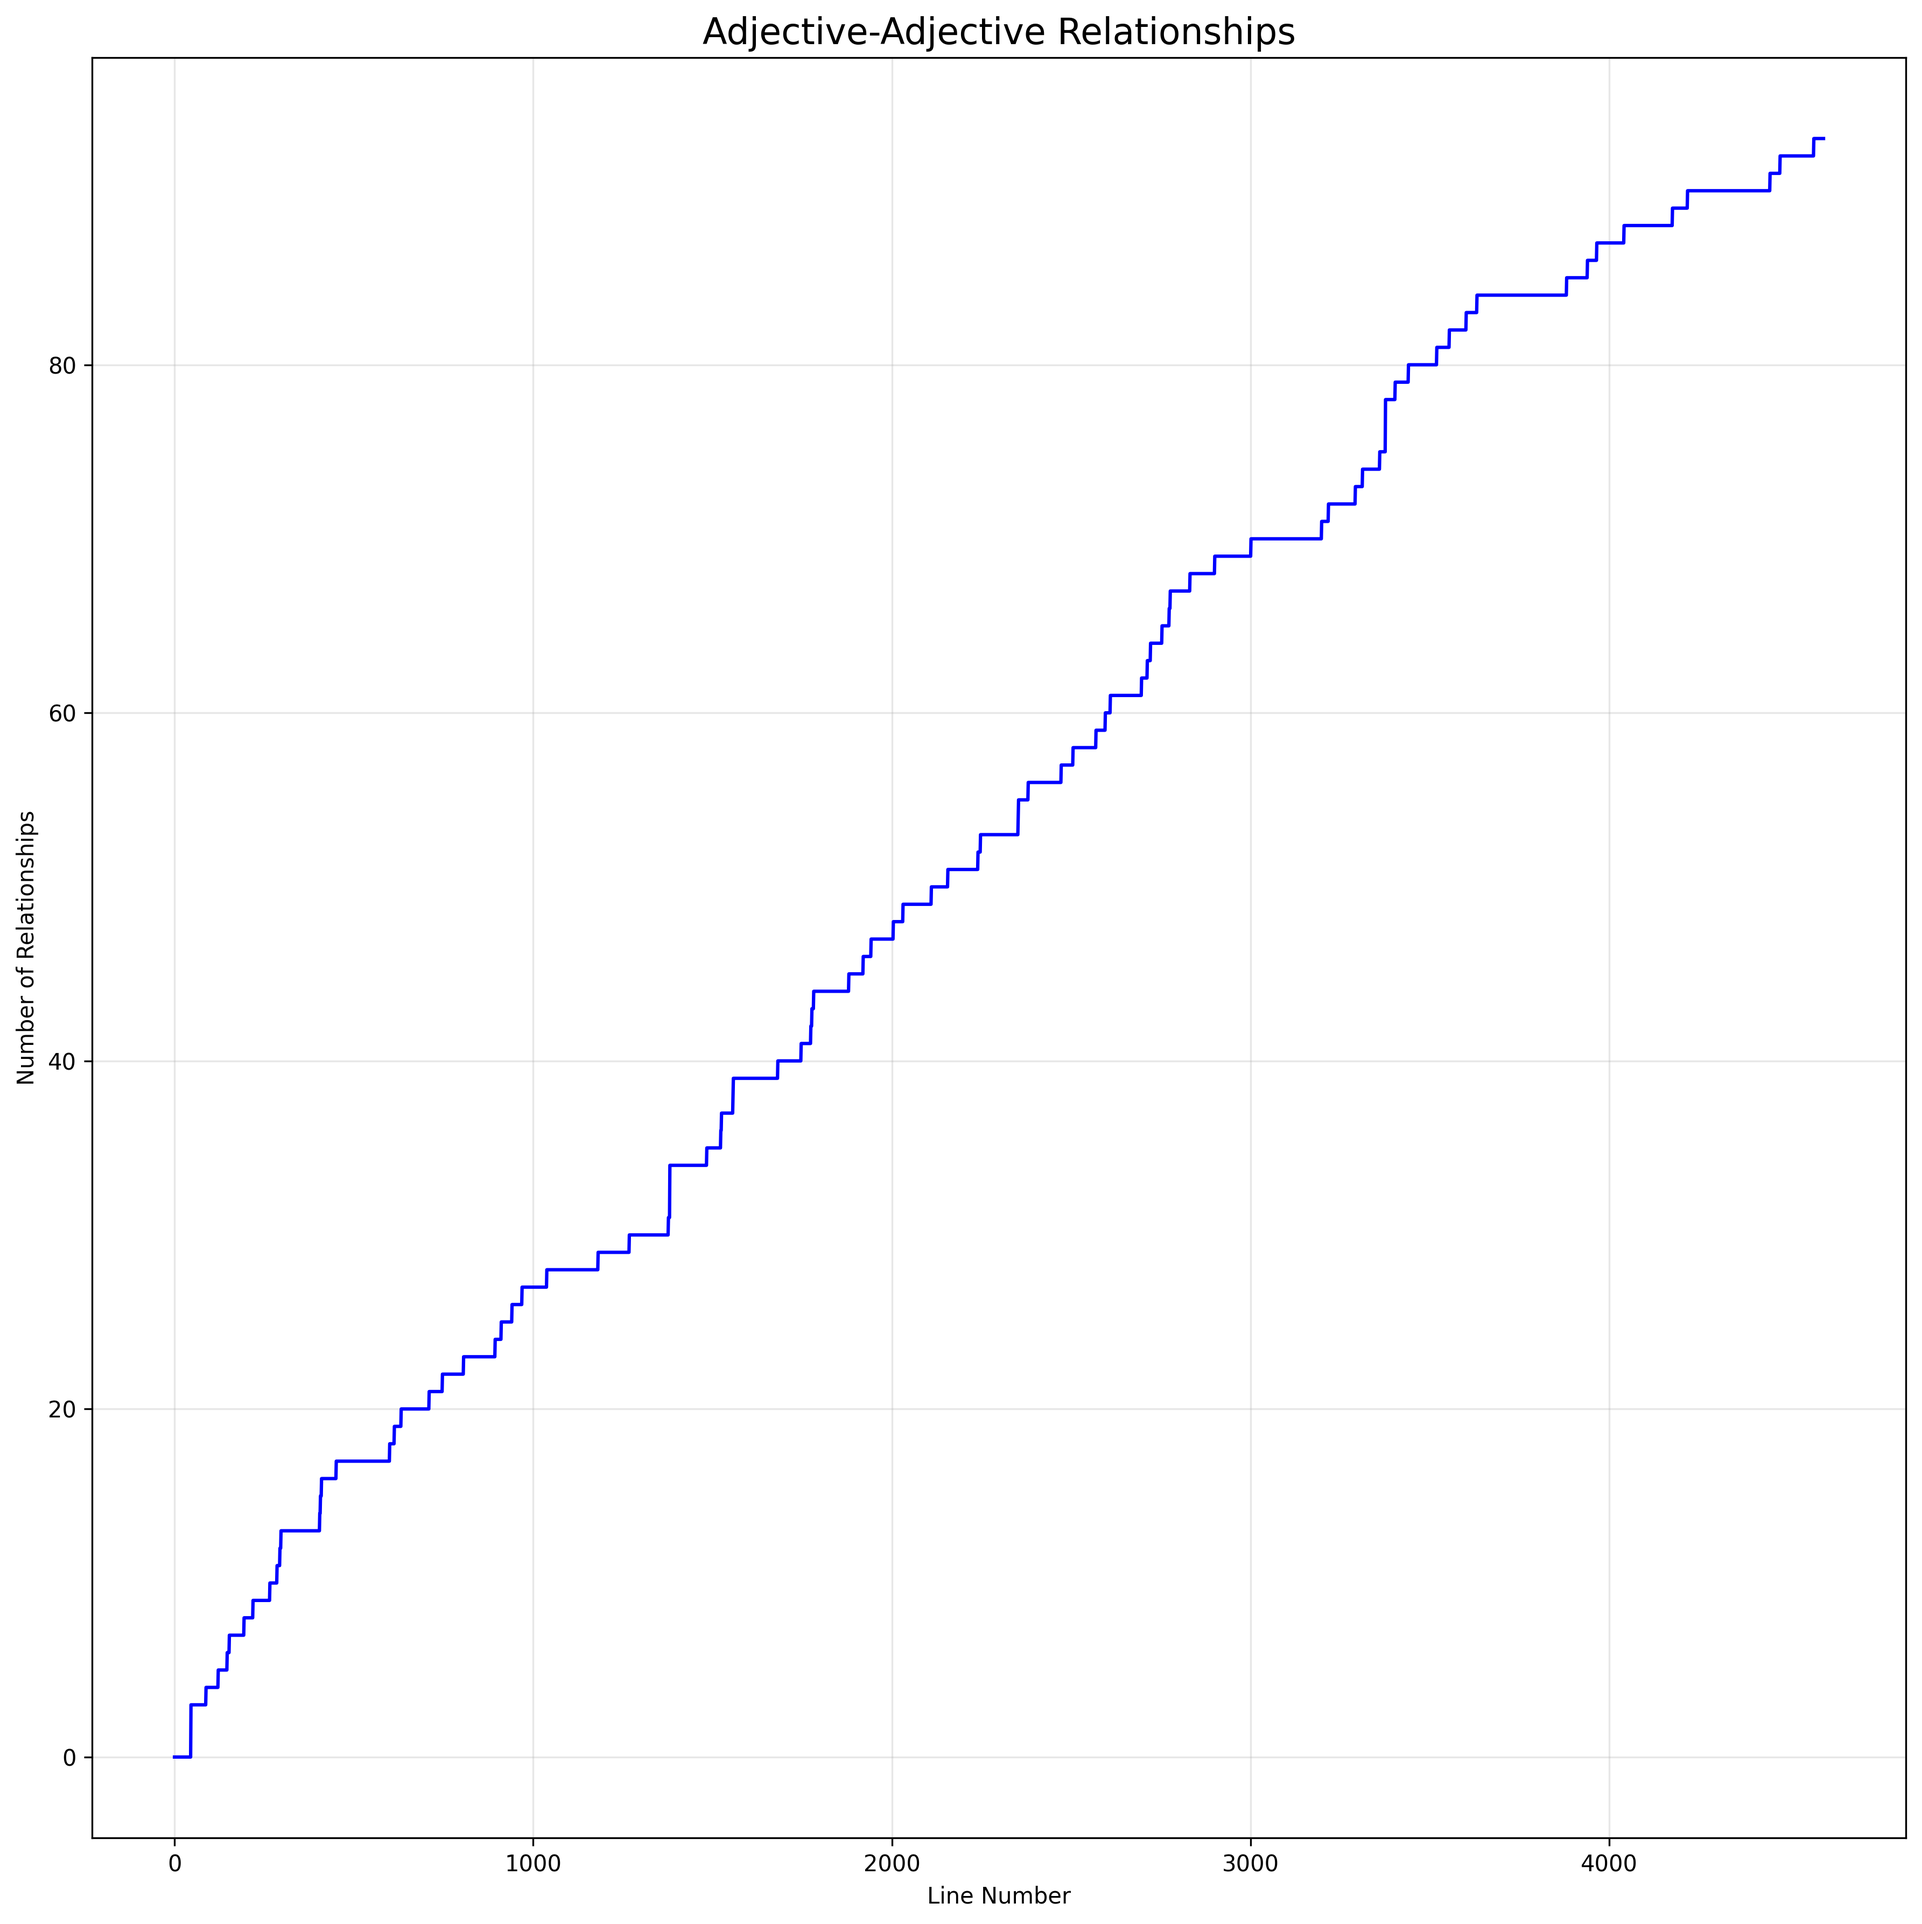
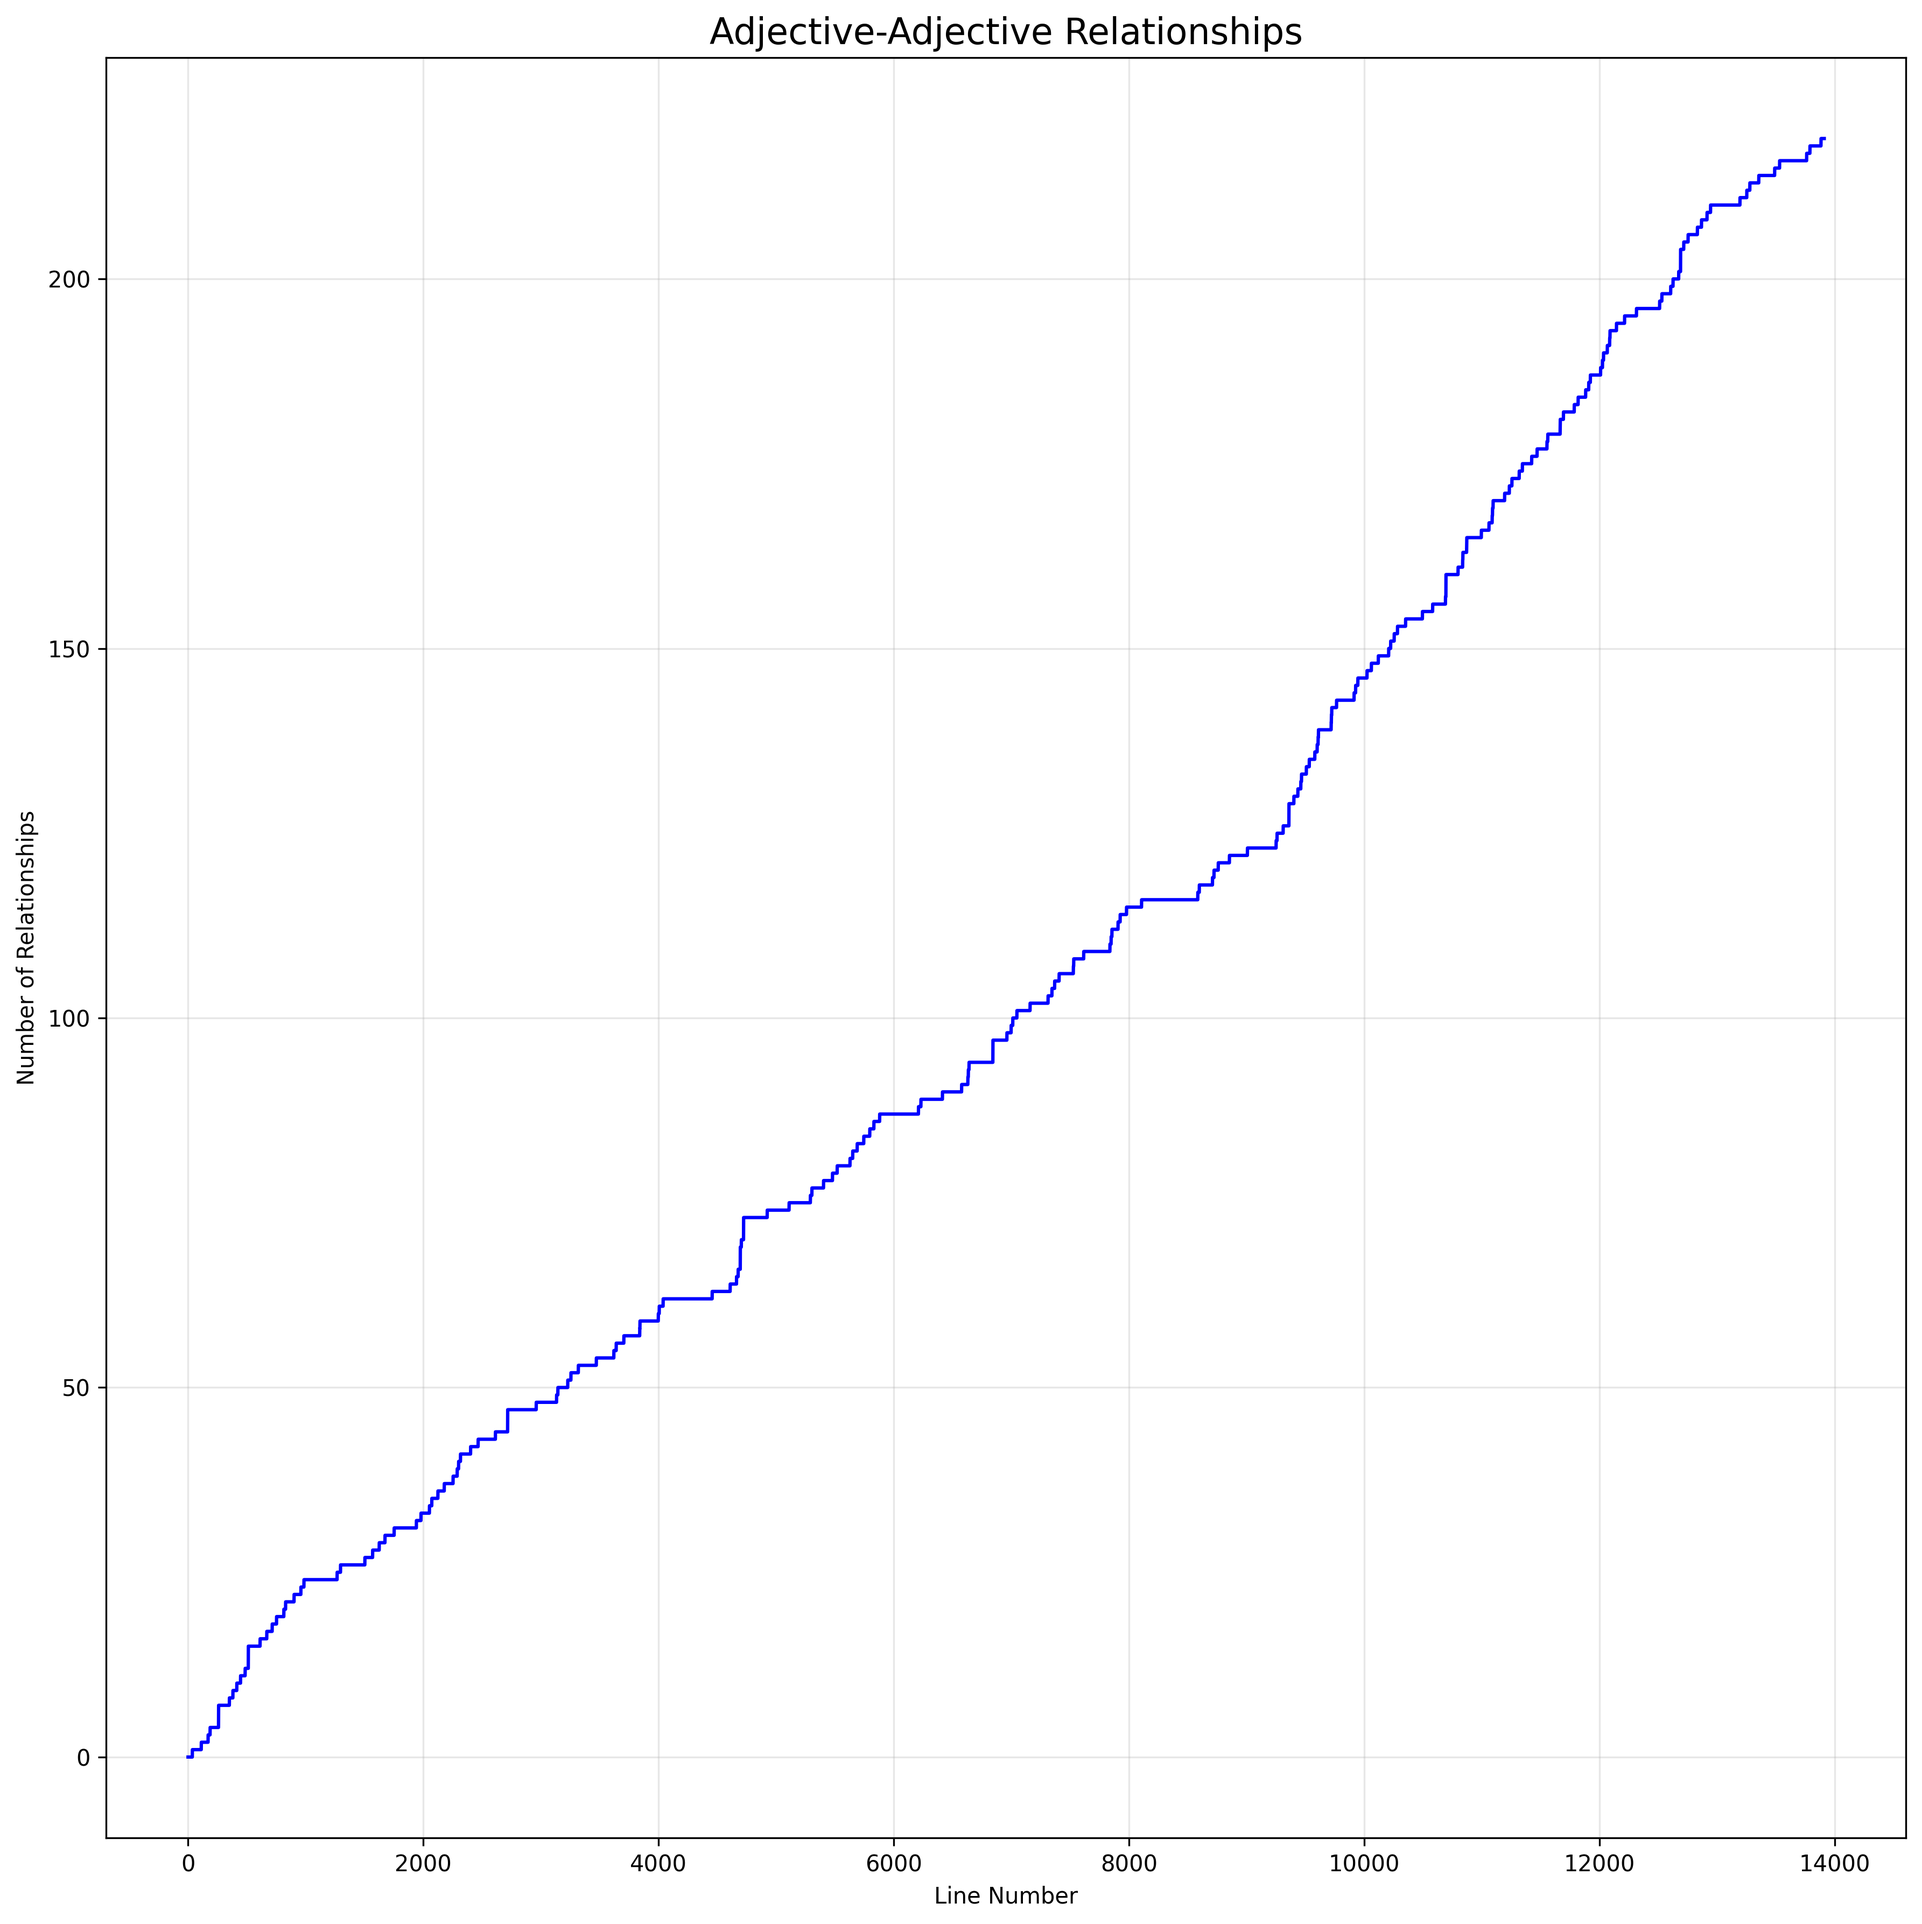
commented out section analysis, broke the evolution graphs, improved text cleaning

diff --git a/main.py b/main.py
@@ -29,17 +29,17 @@ if __name__ == "__main__":
     with open("top_adjectives.txt", "w", encoding="utf-8") as f:
         f.write(",\n".join(top_adjs))
 
-    sections = ["HELL", "PURGATORY", "PARADISE"]
-    section_adjs = []
+    # sections = ["HELL", "PURGATORY", "PARADISE"]
+    # section_adjs = []
 
-    for sec in sections:
-        file_path = f"{sec}.txt"
-        _, top_nouns_sec, top_adjs_sec = process_text(file_path)
+    # for sec in sections:
+    #     file_path = f"{sec}.txt"
+    #     _, top_nouns_sec, top_adjs_sec = process_text(file_path)
 
-        sec_adjs = list(set(top_adjs) & set(top_adjs_sec))
-        sec_nouns = list(set(top_nouns) & set(top_nouns_sec))
+    #     sec_adjs = list(set(top_adjs) & set(top_adjs_sec))
+    #     sec_nouns = list(set(top_nouns) & set(top_nouns_sec))
 
-        section_adjs.append(sec_adjs)
+    #     section_adjs.append(sec_adjs)
 
     # requirement 2
     network = graph_for_adj_noun_occurrence(lines, top_nouns, top_adjs)
@@ -71,17 +71,17 @@ if __name__ == "__main__":
     # requirement 9
     partition = detect_communities_louvain(network)
 
-    comms = [comm for comm in partition]
+    # comms = [comm for comm in partition]
 
-    for i, comm in enumerate(comms):
-        # each section is one of the elements
-        counts = [0, 0, 0]
-        for adj in section_adjs[i]:
-            comm_i = network.nodes[f"adj_{adj}"]["modularity_class"][4]
-            counts[int(comm_i)] += 1
+    # for i, comm in enumerate(comms):
+    #     # each section is one of the elements
+    #     counts = [0, 0, 0]
+    #     for adj in section_adjs[i]:
+    #         comm_i = network.nodes[f"adj_{adj}"]["modularity_class"][4]
+    #         counts[int(comm_i)] += 1
 
-        # shows the common adjectives between this community and each of the sections
-        print(f"Community {i}: {counts}")
+    #     # shows the common adjectives between this community and each of the sections
+    #     print(f"Community {i}: {counts}")
 
     # requirement 10
     relation_evolution(file_path, top_nouns, top_adjs)

diff --git a/req_1_text_processing.py b/req_1_text_processing.py
@@ -132,7 +132,7 @@ def process_text(file_path):
     # clean each line separately, lines are needed later
     with open(file_path, "r", encoding="utf-8") as text:
         for line in text:
-            if line == "":
+            if line == "" or line == "\n" or line == " ":
                 continue
             line = read_clean_text(line.split())
             lines.append(line)
